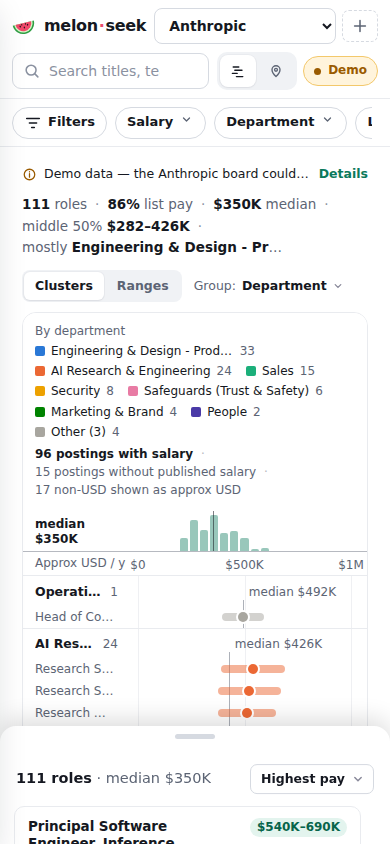
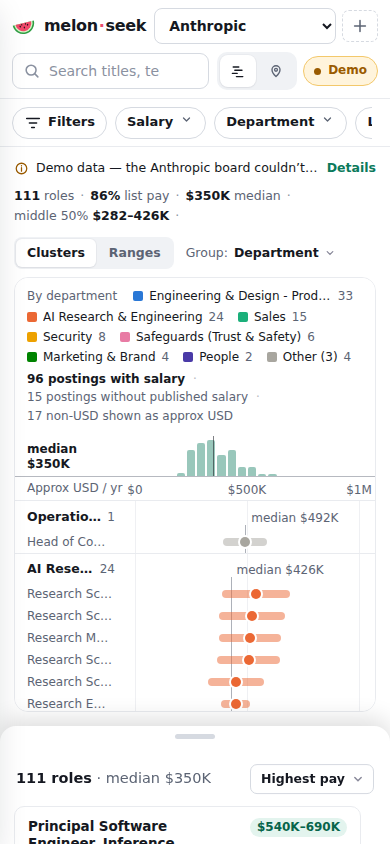
Lead log: livability workstream, first real-data GitHub run
Claude-Session: https://claude.ai/code/session_014jaqot5Ddmi7Co6CofBiyc

diff --git a/test/e2e/ui.e2e.js b/test/e2e/ui.e2e.js
@@ -470,6 +470,45 @@ export function registerUiTests(suite) {
     } finally { await app.close(); }
   });
 
+  suite.test('UI: every company in /api/companies is visible in the switcher at 1440px', async (ctx) => {
+    const app = await openApp(ctx);
+    try {
+      const { page } = app;
+      const r = await page.evaluate(() => {
+        const box = document.querySelector('#companyPills');
+        const br = box.getBoundingClientRect();
+        const select = document.querySelector('#companySelect');
+        const selectVisible = select && getComputedStyle(select).display !== 'none' && select.getBoundingClientRect().width > 0;
+        const hidden = [...box.querySelectorAll('button')].filter((b) => {
+          const rr = b.getBoundingClientRect();
+          return rr.left < br.left - 1 || rr.right > br.right + 1;
+        }).map((b) => b.innerText.replace(/\s+/g, ' ').trim());
+        return { hidden, selectVisible, total: box.querySelectorAll('button').length };
+      });
+      const companies = await (await fetch(`${ctx.baseUrl}/api/companies`)).json();
+      assert(r.total >= companies.length, `only ${r.total} pills for ${companies.length} companies`);
+      assert(r.selectVisible || r.hidden.length === 0,
+        `${r.hidden.length}/${r.total} company pills are clipped in a horizontally-scrolling strip with no visible affordance: ${r.hidden.join(', ')}`);
+    } finally { await app.close(); }
+  });
+
+  suite.test('UI: keyboard - Enter on a focused card opens the drawer, Esc closes and restores focus', async (ctx) => {
+    const app = await openApp(ctx);
+    try {
+      const { page, errors } = app;
+      const card = page.locator('#resultsList .card[data-id]').nth(1);
+      const id = await card.getAttribute('data-id');
+      await card.focus();
+      await page.keyboard.press('Enter');
+      await page.locator('#drawer').waitFor({ state: 'visible', timeout: 3000 });
+      assertEq(new URLSearchParams(await page.evaluate(() => location.hash.slice(1))).get('job'), id, 'job in hash');
+      await page.keyboard.press('Escape');
+      await page.locator('#drawer').waitFor({ state: 'hidden', timeout: 3000 });
+      assertEq(await page.evaluate(() => document.activeElement?.dataset?.id), id, 'focus returns to the card');
+      assert(errors.length === 0, `console/page errors:\n${errors.join('\n')}`);
+    } finally { await app.close(); }
+  });
+
   suite.test('UI: search box filters by text', async (ctx) => {
     const app = await openApp(ctx);
     try {

diff --git a/public/features/insights.js b/public/features/insights.js
@@ -230,7 +230,11 @@ export function createInsights(container, { onFilter, headingLevel = 2 } = {}) {
 
   // (b) salary by department --------------------------------------------------
   function deptCard(jobs, allJobs) {
-    const boxes = deptBoxes(jobs).slice(0, 10);
+    // A box needs a few points: prefer departments with 3+ salaried roles.
+    const allBoxes = deptBoxes(jobs);
+    const solid = allBoxes.filter((b) => b.n >= 3);
+    const boxes = (solid.length ? solid : allBoxes).slice(0, 10);
+    const hidden = allBoxes.length - boxes.length;
     const sub = 'Middle 50% of pay (box), 10th–90th percentile (whiskers), median (tick).';
     if (!boxes.length) return card('Pay by department', sub, emptyNote('None of these roles publish pay.'), { headTag: `h${hl + 1}` });
     // Stable axis: domain from all jobs so filtering doesn't rescale the plot.
@@ -257,7 +261,9 @@ export function createInsights(container, { onFilter, headingLevel = 2 } = {}) {
       h('span', { class: 'msi-axis__pad' }),
       h('span', { class: 'msi-axis__track' }, ticks.map((t) => h('span', { class: 'msi-axis__tick', style: { left: x(t) } }, formatMoney(t)))),
       h('span', { class: 'msi-axis__pad msi-axis__pad--end' }));
-    return card('Pay by department', sub, h('div', { class: 'msi-rows msi-rows--box' }, rows, axis), { headTag: `h${hl + 1}` });
+    const foot = hidden > 0
+      ? h('p', { class: 'msi-foot' }, `${plural(hidden, 'department')} with fewer than 3 salaried roles not shown.`) : null;
+    return card('Pay by department', sub, [h('div', { class: 'msi-rows msi-rows--box' }, rows, axis), foot], { headTag: `h${hl + 1}` });
   }
 
   // (c) hot locations -------------------------------------------------------

diff --git a/public/styles.css b/public/styles.css
@@ -728,3 +728,13 @@ html[data-mode="map"] .demo-banner { padding: 0; }
 .area-x:hover { background: color-mix(in srgb, var(--ms-accent) 15%, transparent); }
 .area-label { max-width: 280px; overflow: hidden; text-overflow: ellipsis; white-space: nowrap; }
 .loc-ico svg { color: var(--ms-accent); }
+.stats-line { flex: 1 1 100%; flex-wrap: nowrap; overflow: hidden; }
+.stat--top { min-width: 0; flex: 0 1 auto; max-width: none; }
+@media (max-width: 860px) {
+  .stats-line { font-size: 12.5px; gap: 2px 6px; }
+  .stat--top, .stat--top + .stat-sep { display: none; }
+}
+@media (max-width: 860px) {
+  .main { padding: 10px 14px 132px; gap: 8px; }
+  .stats-line { flex-wrap: wrap; }
+}

diff --git a/public/features/features.css b/public/features/features.css
@@ -156,6 +156,7 @@
 .msi-card__title { margin: 0; font-size: 14px; font-weight: 650; }
 .msi-card__sub { margin: 2px 0 0; color: var(--_muted); font-size: 12px; }
 .msi-empty { margin: 4px 0; color: var(--_muted); font-size: 12.5px; }
+.msi-foot { margin: 8px 0 0; color: var(--_muted); font-size: 11.5px; }
 
 /* rows: one button per category -------------------------------------- */
 

diff --git a/docs/process/lead.md b/docs/process/lead.md
@@ -141,3 +141,17 @@ screenshots in `docs/screenshots/`.
   - UX: Clusters|Ranges toggle, cluster selection filters the list via a
     chip, compact demo notice, KPI tiles collapsed to one stats row, lighter
     cards, view stored in the URL hash.
+- 2026-10-02: user asked for a cost-of-living / livability score with a melon
+  pun ("Juice Score" by default). Launched the livability agent
+  (prompts/livability.md). It owns data/cities.json, server/juice.js,
+  scripts/update-col.js and the col-refresh workflow.
+- 2026-10-02: backend review fixes landed (43 backend tests). CI red only
+  because of 2 failing tests in test/features.test.js; sent to product.
+- 2026-10-02: first GitHub Actions Pages run (run 36970453911). Snapshot step
+  fetched REAL data from the runners: anthropic 638 jobs (558 with salary),
+  openai 833 (674), scaleai 194, xai 297, cohere 132, palantir 320, shieldai
+  581. anduril failed (body > 25 MB cap); mistral returned 0 jobs. The deploy
+  failed at configure-pages: "Get Pages site failed ... Not Found", so Pages
+  isn't enabled on the repo yet (a user setting). Follow-ups: raise the
+  built-in body cap and drop mistral (backend); lazy-load descriptions so
+  bundles stay small (devops, ux).
